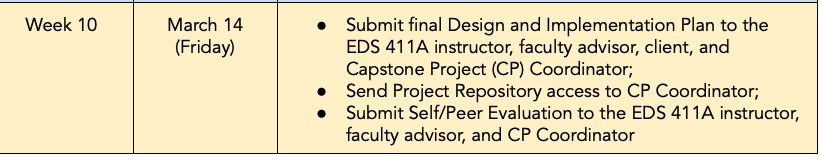
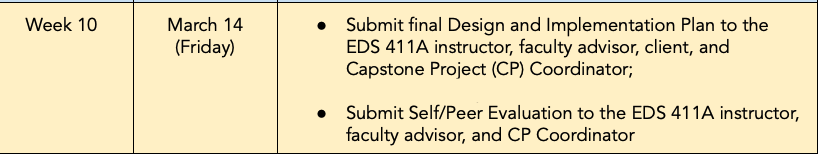
Remove the project repo access from deadlines

Changed region(s): [[0.365, 0.5, 0.9428, 0.625]]

diff --git a/docs/411a_winter/week10.html b/docs/411a_winter/week10.html
@@ -188,13 +188,28 @@ ul.task-list li input[type="checkbox"] {
 <section id="upcoming-capstone-deadlines" class="level2">
 <h2 class="anchored" data-anchor-id="upcoming-capstone-deadlines">Upcoming Capstone Deadlines</h2>
 <p><img src="../411a_winter/images/411a_2025_deadlines5.png" class="img-fluid"></p>
+<div class="callout callout-style-default callout-warning callout-titled">
+<div class="callout-header d-flex align-content-center">
+<div class="callout-icon-container">
+<i class="callout-icon"></i>
+</div>
+<div class="callout-title-container flex-fill">
+No need to “Send repository access to CP coordinator”
+</div>
+</div>
+<div class="callout-body-container callout-body">
+<p>The previous deadlines outline contained an out-of-date instruction about “Sending repository access to CP coordinator.” You don’t need to do anything! We needed it last year, but this year I have the URLs to all your GitHub orgs where you have your project’s code.</p>
+<p>Thanks to the groups who brought this to my attention!</p>
+<p>Carmen</p>
+</div>
+</div>
 </section>
 <section id="to-do-by-friday" class="level2">
 <h2 class="anchored" data-anchor-id="to-do-by-friday">To do by Friday</h2>
 <section id="submit-final-design-and-implementation-plan" class="level3">
 <h3 class="anchored" data-anchor-id="submit-final-design-and-implementation-plan">📥 Submit Final Design and Implementation Plan</h3>
 <ul>
-<li>Upload it to <a href="">Box</a> in PDF format with your Capstone Project short name (e.g., Seamissions Design and Implementation Plan.pdf).</li>
+<li>Upload it to <a href="https://ucsb.app.box.com/f/c37d6e026e1243fd9d331051c5751c4c">Box</a> in PDF format with your Capstone Project short name (e.g., Seamissions Design and Implementation Plan.pdf).</li>
 <li>Email to your faculty advisor and client: be professional and thank them for their involvement.</li>
 </ul>
 <p><br></p>
@@ -203,7 +218,7 @@ ul.task-list li input[type="checkbox"] {
 <h3 class="anchored" data-anchor-id="submit-peerself-evaluation">📥 Submit Peer/Self Evaluation</h3>
 <ul>
 <li>Each student must complete a Capstone Project Peer &amp; Self Evaluation Form for Winter Quarter.</li>
-<li>Upload your evaluation form to <a href="">Box</a> and save your document with your Capstone Project short name and your full name as the file name (e.g., SaferSeafood Carmen Galaz García).</li>
+<li>Upload your evaluation form to <a href="https://ucsb.app.box.com/f/0dd4b45d2eb1497f922d92a422ff0c13">Box</a> and save your document with your Capstone Project short name and your full name as the file name (e.g., SaferSeafood Carmen Galaz García).</li>
 <li><strong>You must also email your evaluation directly to your faculty advisor.</strong></li>
 </ul>
 <p><br></p>
